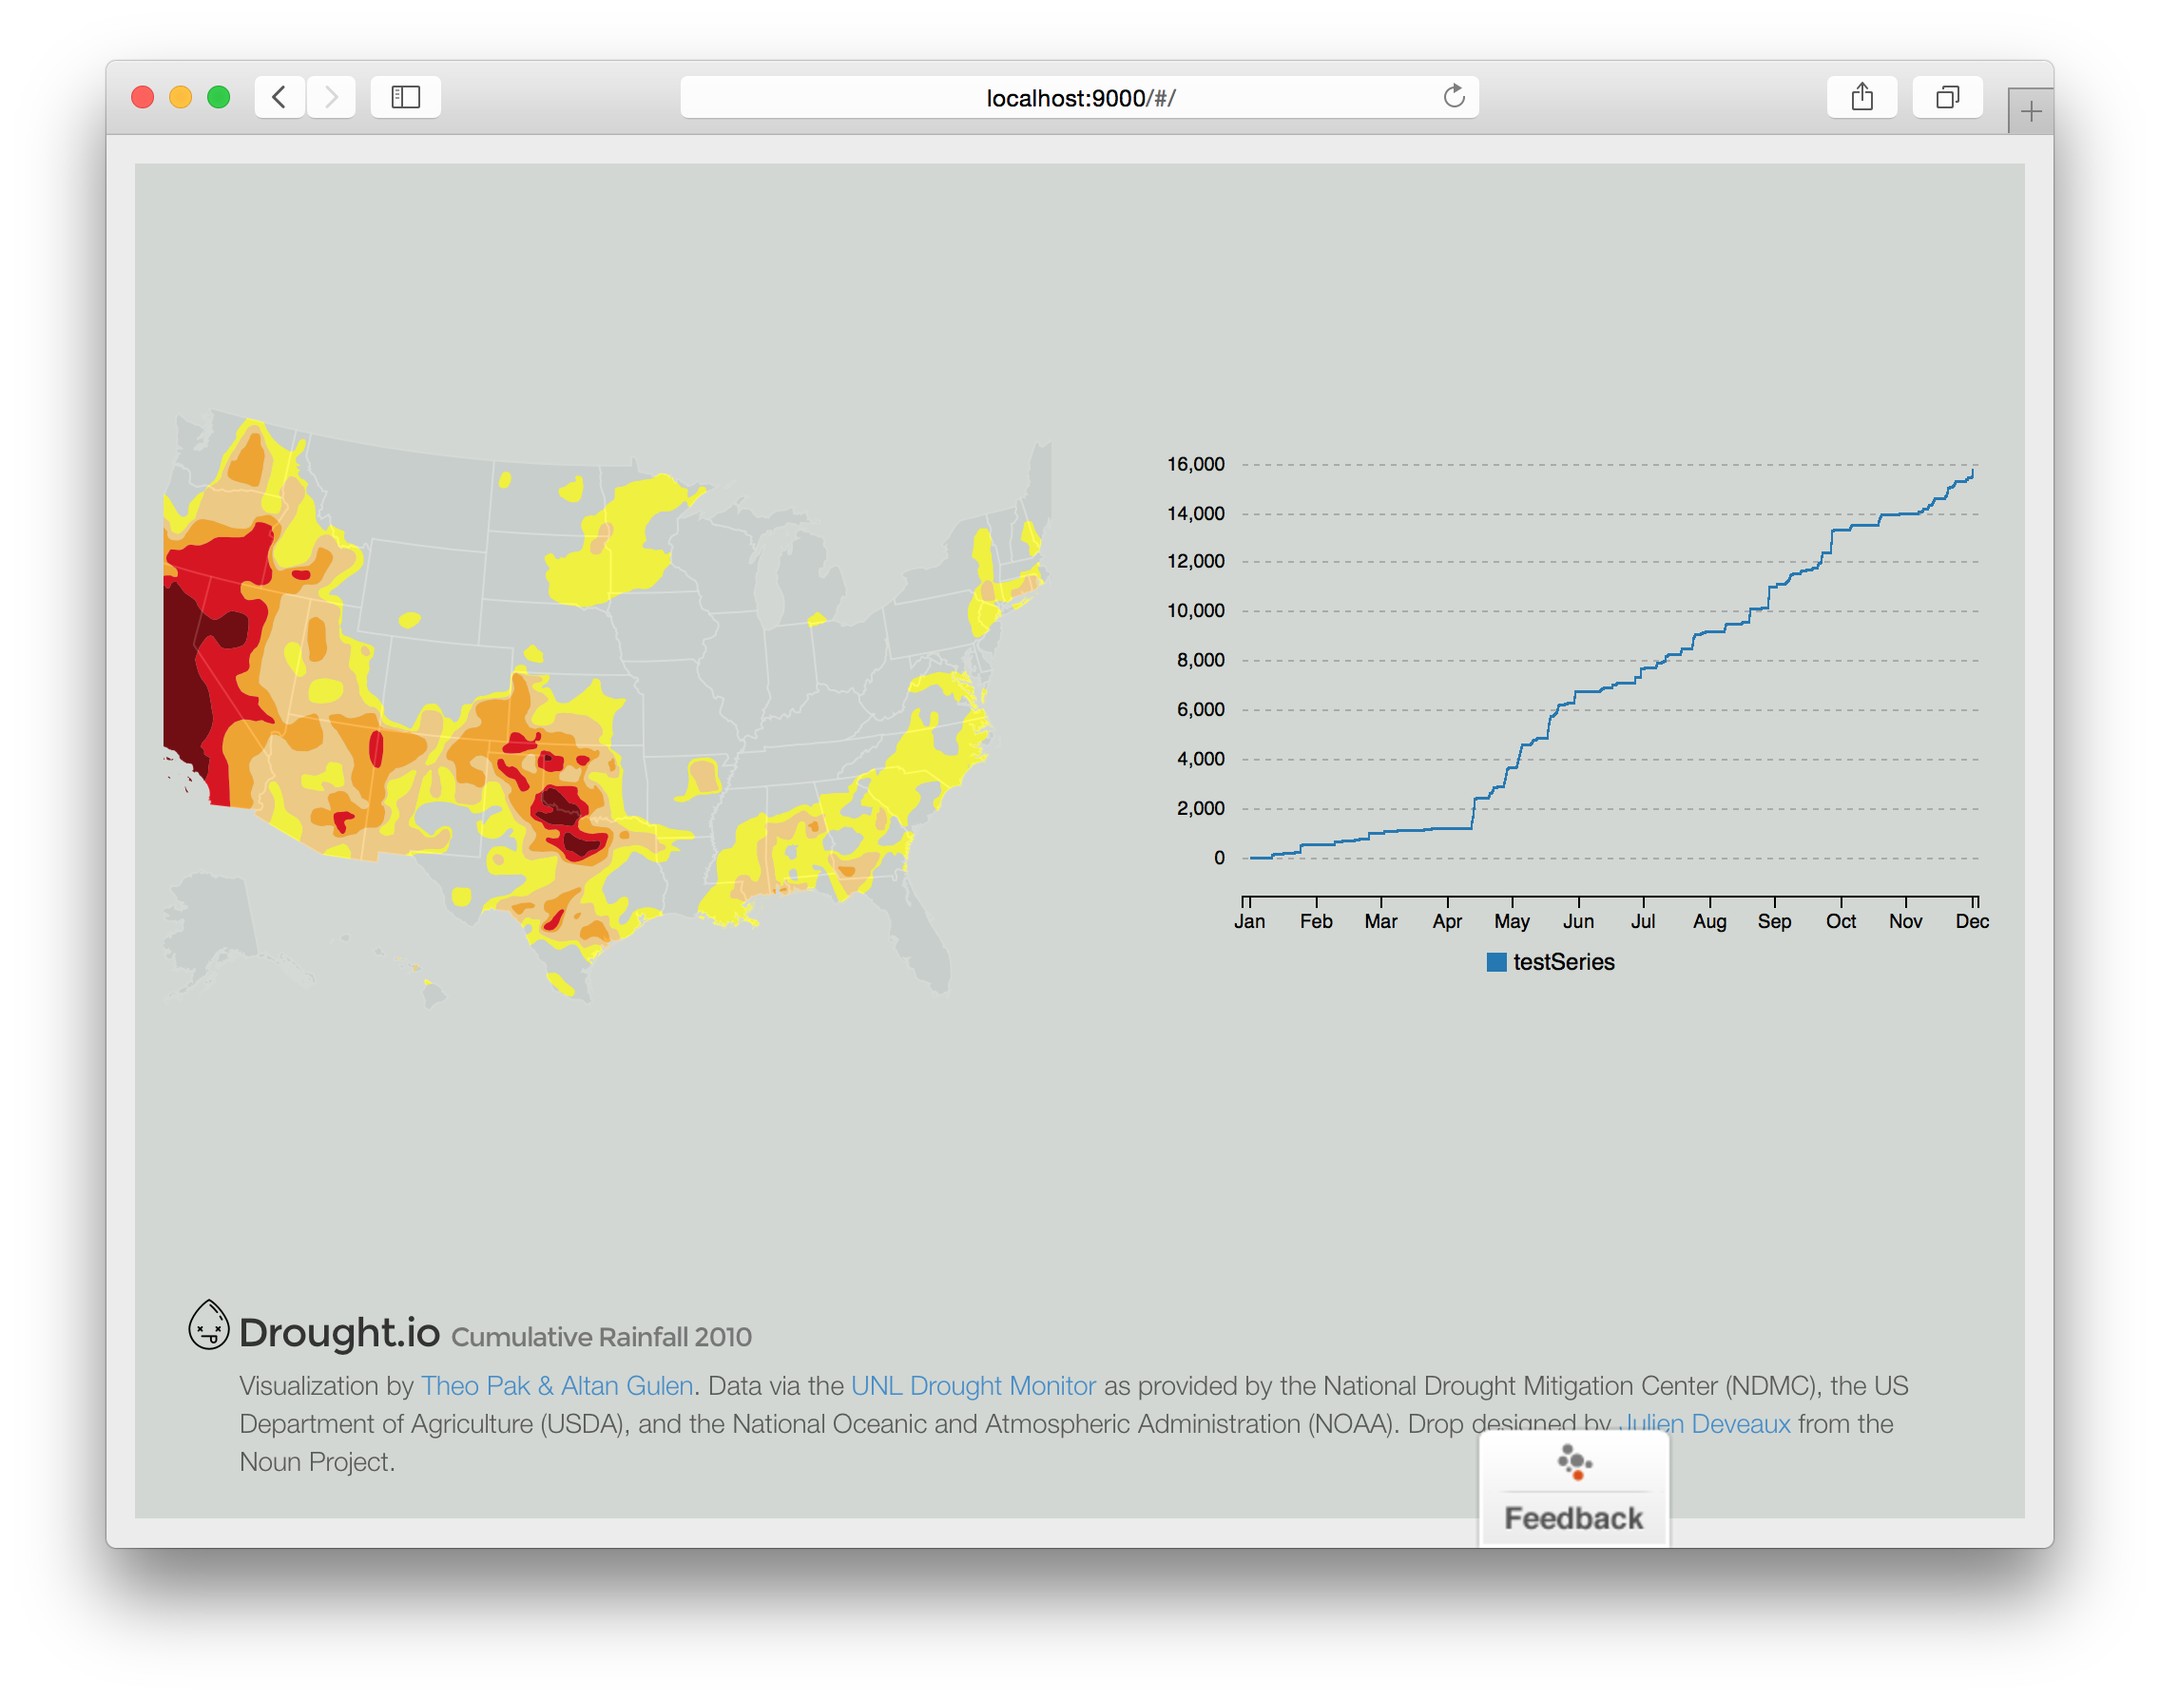
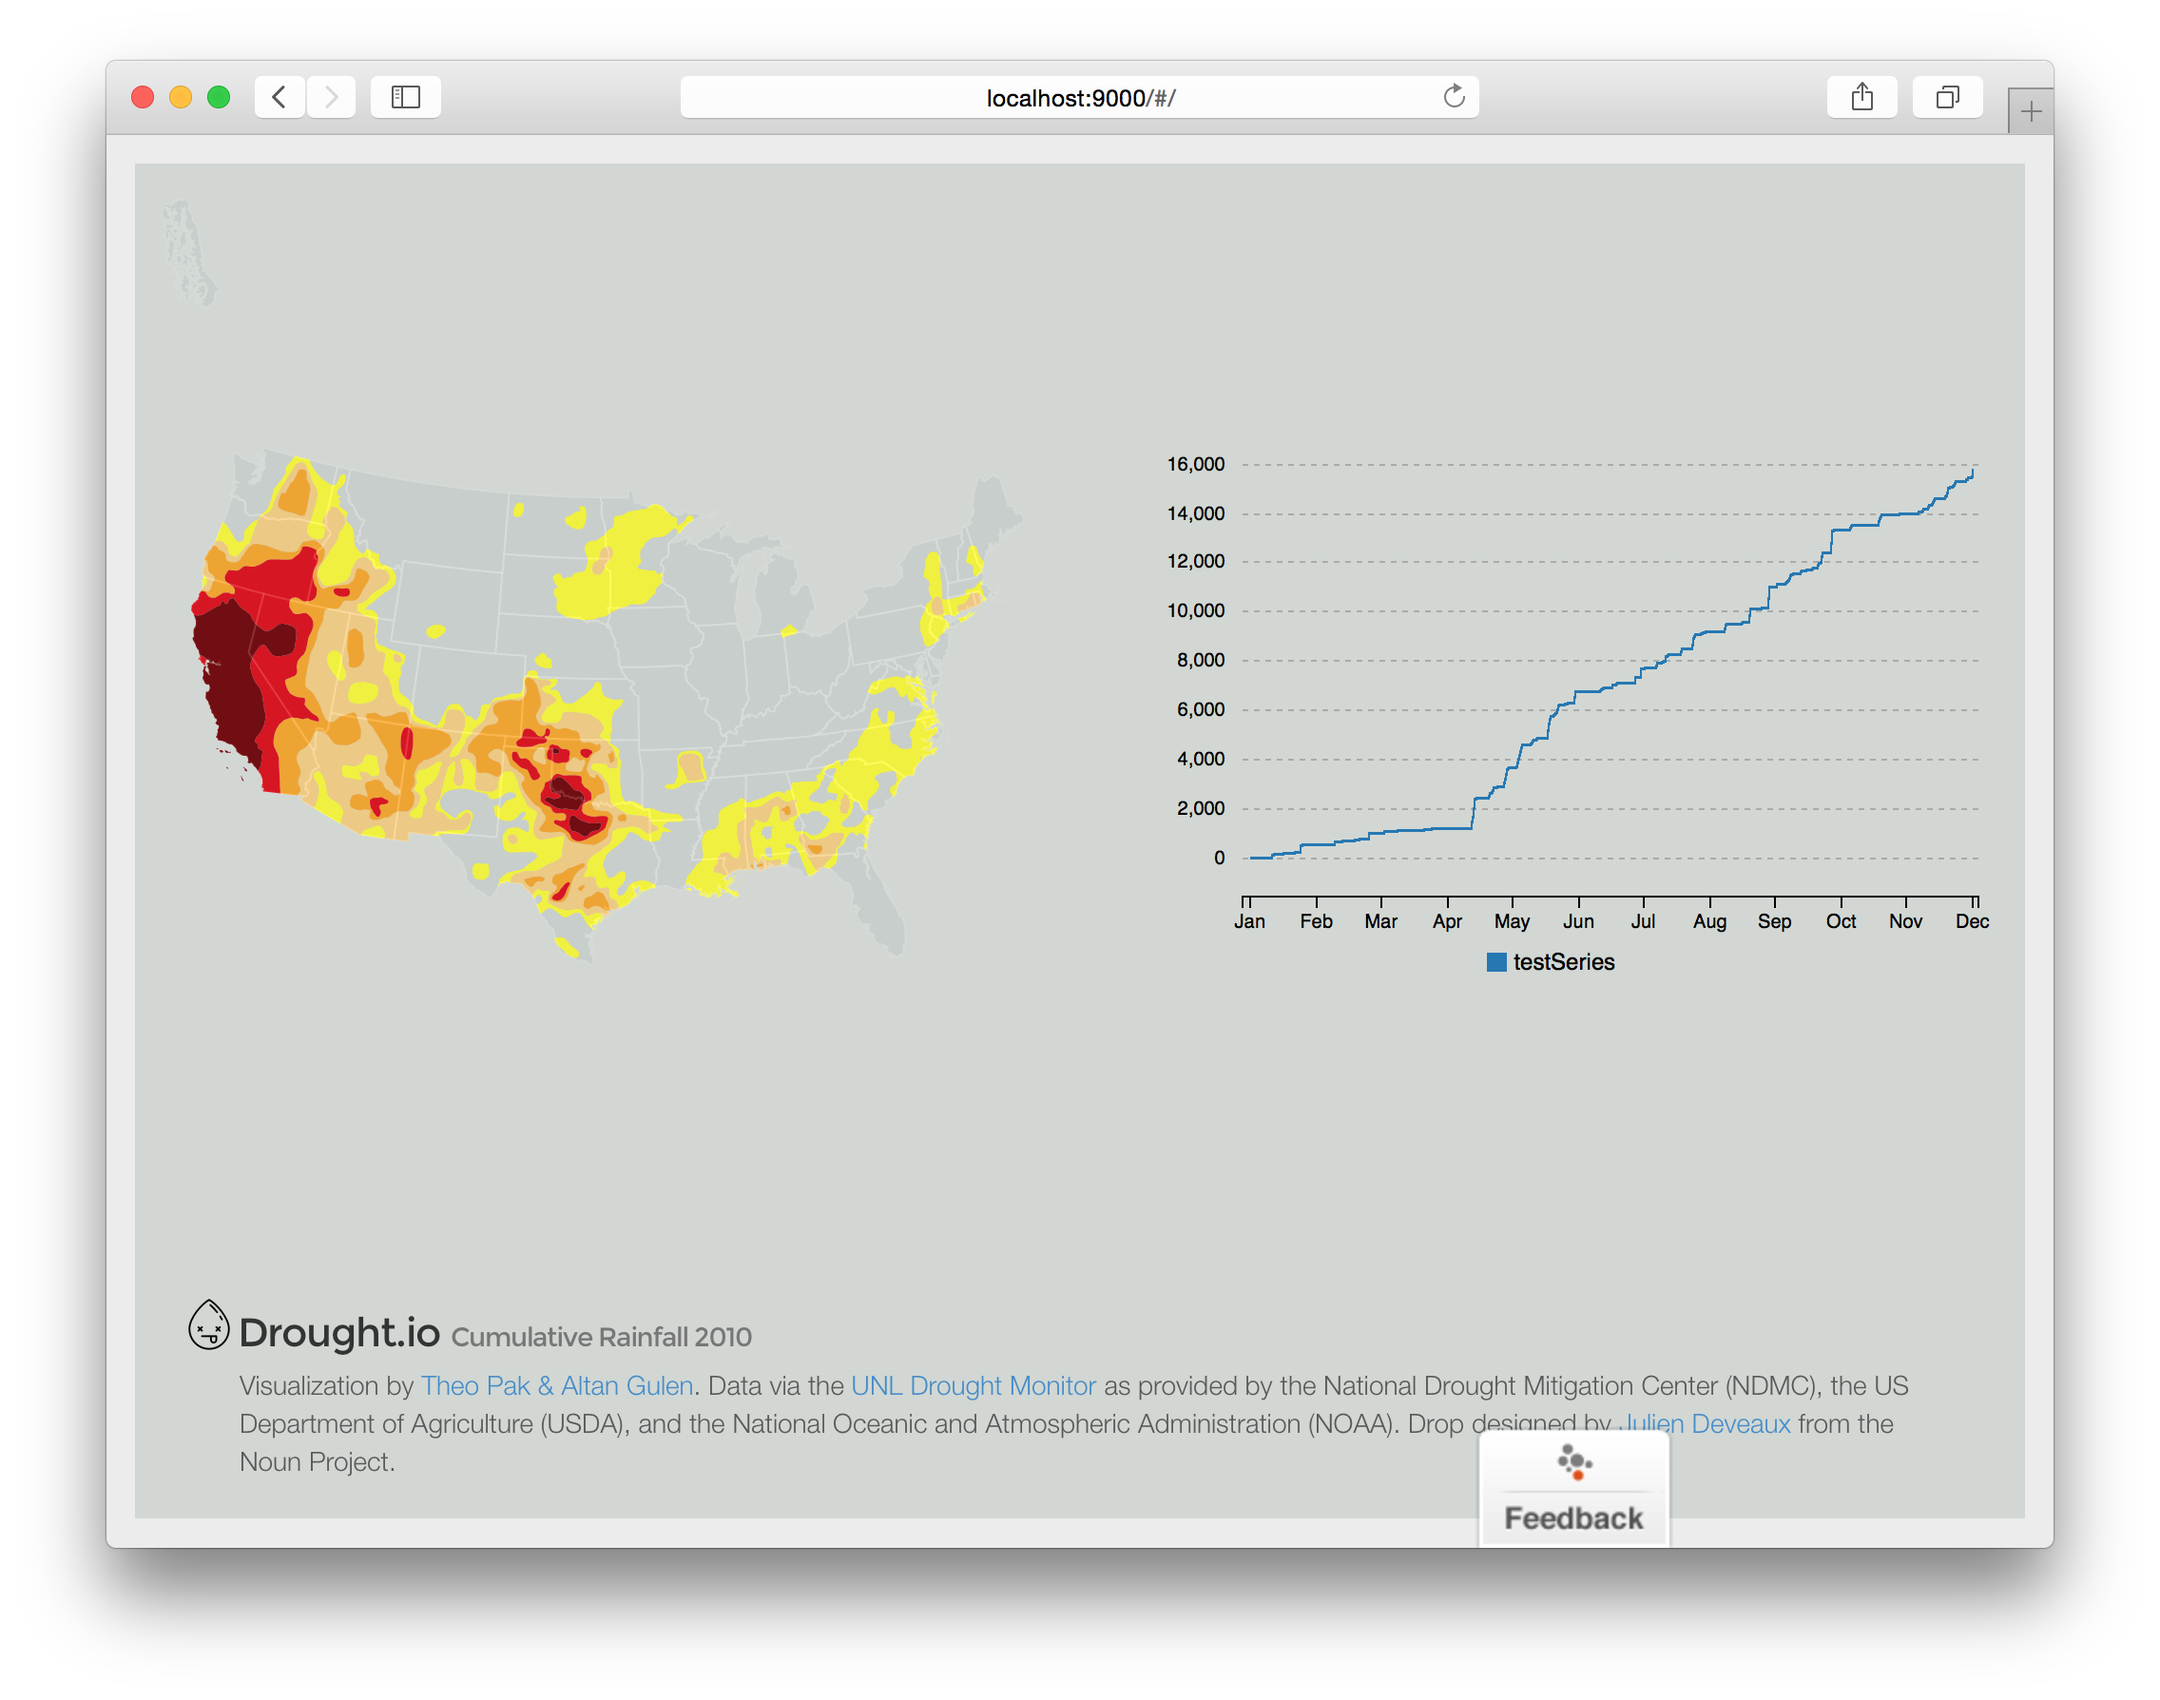
Switches to Albers projection (instead of Albers USA), changes map scale, updates screenshot.

Changed region(s): [[0.0625, 0.2461, 0.5, 0.5845], [0.25, 0.2768, 0.3438, 0.3691]]

diff --git a/app/scripts/directives/droughtMap.js b/app/scripts/directives/droughtMap.js
@@ -17,8 +17,8 @@ app.directive('droughtMap', ['d3Service', '$q', 'globalService',
             var width = $(element[0]).innerWidth(),
                 height = Math.max(window.innerHeight - 30 - $('#navbar').outerHeight(), 240);
 
-            var projection = d3.geo.albersUsa()
-              .scale(700)
+            var projection = d3.geo.albers()
+              .scale(1.3 * width)
               .translate([width / 2, height / 2]);
 
             var path = d3.geo.path()
@@ -29,7 +29,7 @@ app.directive('droughtMap', ['d3Service', '$q', 'globalService',
               .attr('height', height);
 
             var g = svg.append('g')
-              .on('click', stopped, true);
+              // .on('click', stopped, true);
             
             // Add graticules
             // var graticule = d3.geo.graticule();
